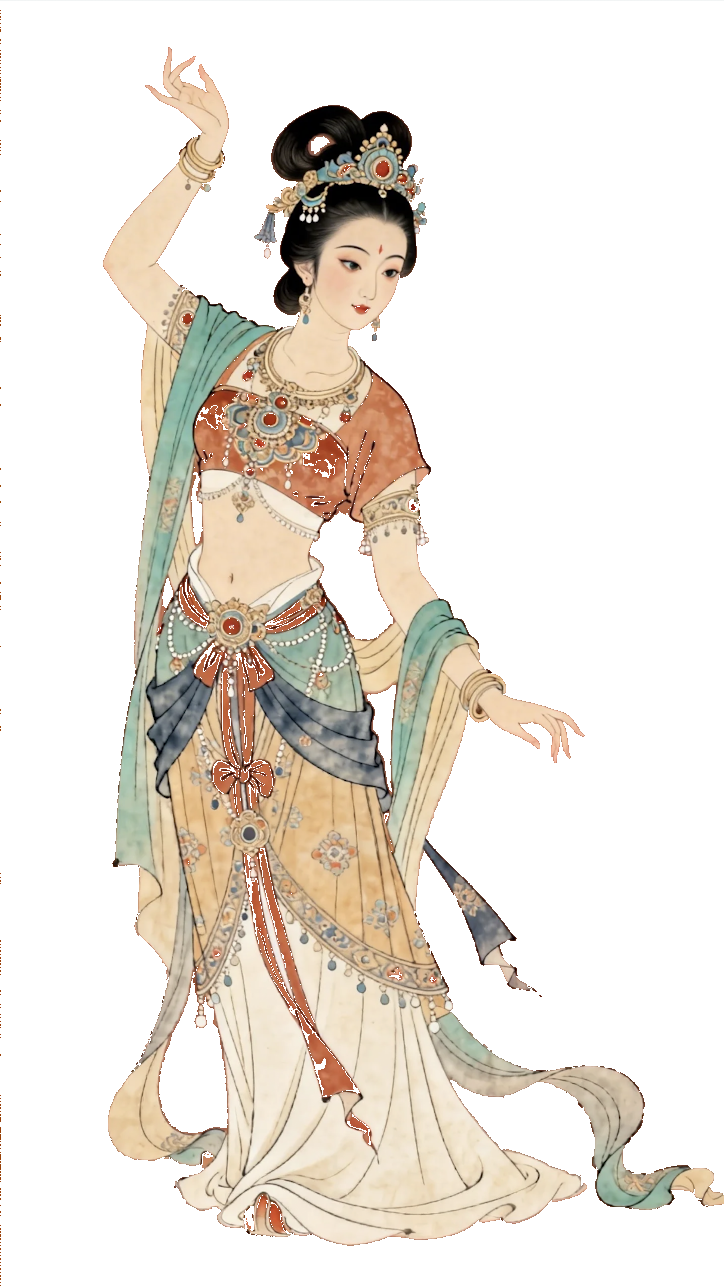
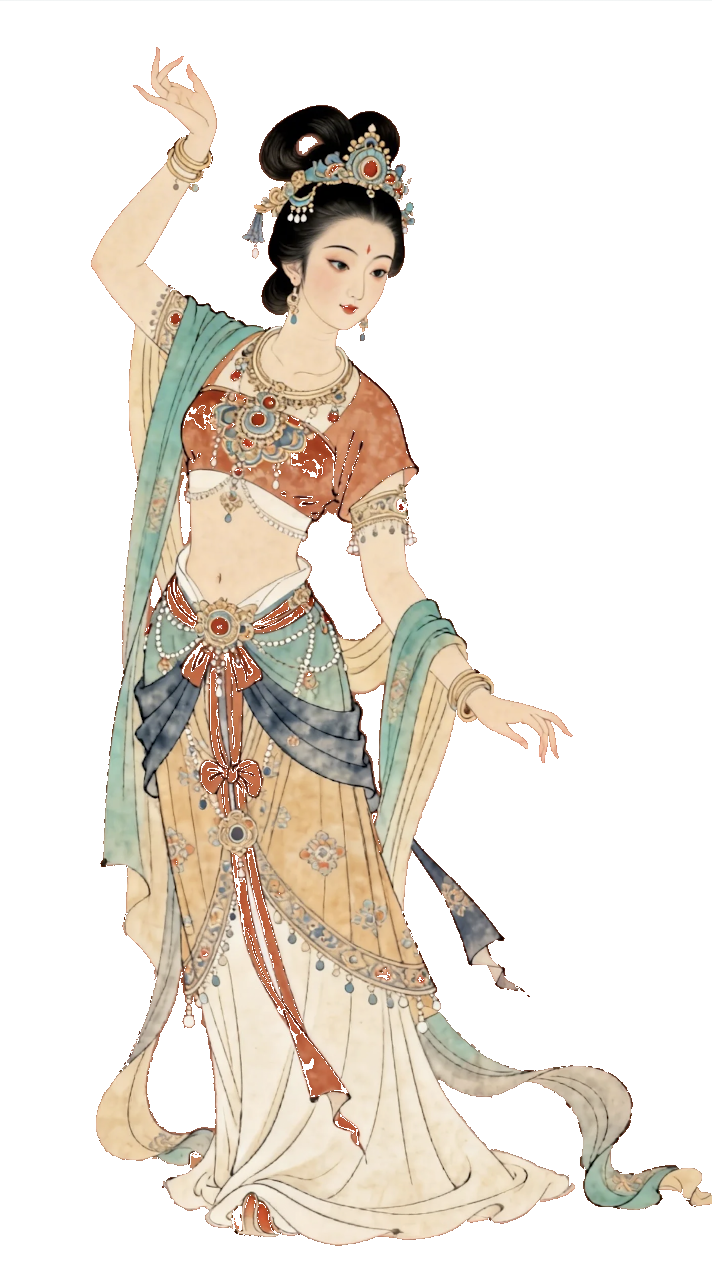
home: connect the cutting interaction — scissors bite the phoenix
Redesigns the maker scene as ONE action instead of three floating props:
- her lowered hand holds the scissors (loops at her fingers, origin at
  the loops), blades rotated to bite the phoenix's upper-left edge
- phoenix shrunk to work-in-progress scale (33%) and moved under the
  blades; it trembles slightly with each snip, pivoting where held
- a raw uncut sheet corner tucks under the contact point
- scraps now fall exactly from the blade-paper CONTACT point
- woman enlarged (stage 102vh, tighter right margin)
- woman.png: trimmed 12px screenshot-edge artifact; % coords re-tuned
  (aspect 712/1288, eyelids re-aligned)

diff --git a/src/components/PapercutMakerScene.jsx b/src/components/PapercutMakerScene.jsx
@@ -18,12 +18,19 @@
  * so they track the woman image at every viewport size.
  */
 
+/*
+ * Interaction design (one connected action, not three props):
+ *   her lowered hand HOLDS the scissors → the blades bite the upper-left
+ *   edge of the phoenix she is cutting → scraps fall exactly from that
+ *   blade-paper contact point (~63%, 60% of stage).
+ */
+const CONTACT = { x: 63, y: 59 };  // blade ↔ paper contact, % of stage
 const SCRAPS = [
-  { left: 60, top: 70, delay: 0,   dur: 3.4 },
-  { left: 66, top: 73, delay: 1.1, dur: 3.8 },
-  { left: 57, top: 75, delay: 2.0, dur: 3.1 },
-  { left: 70, top: 71, delay: 2.7, dur: 4.2 },
-  { left: 63, top: 77, delay: 0.6, dur: 3.6 },
+  { left: CONTACT.x - 2, top: CONTACT.y + 1, delay: 0,   dur: 3.4 },
+  { left: CONTACT.x + 3, top: CONTACT.y + 3, delay: 1.1, dur: 3.8 },
+  { left: CONTACT.x - 4, top: CONTACT.y + 4, delay: 2.0, dur: 3.1 },
+  { left: CONTACT.x + 6, top: CONTACT.y + 2, delay: 2.7, dur: 4.2 },
+  { left: CONTACT.x,     top: CONTACT.y + 5, delay: 0.6, dur: 3.6 },
 ];
 
 export default function PapercutMakerScene({ lang = 'en' }) {
@@ -64,8 +71,10 @@ export default function PapercutMakerScene({ lang = 'en' }) {
 
       {/* ── stage: fixed-aspect box matching woman.png (724 × 1288) ── */}
       <div className="pmk-stage">
-        {/* phoenix papercut — held aloft by her raised hand (behind her arm) */}
+        {/* work-in-progress: the phoenix being cut, at her working hand */}
         <img src="/maker/phoenix.png" alt="" draggable={false} className="pmk-phoenix" />
+        {/* raw uncut sheet corner still attached at the blade contact */}
+        <span className="pmk-rawsheet" aria-hidden="true" />
 
         {/* the maker */}
         <div className="pmk-woman-wrap">
@@ -114,9 +123,9 @@ export default function PapercutMakerScene({ lang = 'en' }) {
         }
         .pmk-stage {
           position: absolute;
-          right: 4vw; bottom: 0;
-          height: 96vh;
-          aspect-ratio: 724 / 1288;
+          right: 2vw; bottom: 0;
+          height: 102vh;
+          aspect-ratio: 712 / 1288;
           z-index: 2;
         }
         .pmk-woman-wrap {
@@ -138,33 +147,46 @@ export default function PapercutMakerScene({ lang = 'en' }) {
           transform-origin: top center;
           z-index: 3;
         }
-        .pmk-lid-l { left: 46.6%; top: 19.9%; width: 3.6%; height: 1.15%; }
-        .pmk-lid-r { left: 52.6%; top: 20.6%; width: 2.8%; height: 0.95%; }
+        .pmk-lid-l { left: 45.7%; top: 19.9%; width: 3.7%; height: 1.15%; }
+        .pmk-lid-r { left: 51.8%; top: 20.6%; width: 2.85%; height: 0.95%; }
         .pmk-lid     { animation: pmkBlink 4.6s ease-in-out infinite; }
         .pmk-lid-r.pmk-lid { animation-delay: 0.04s; }
         .pmk-halflid { animation: pmkHalfLid 11s ease-in-out infinite; opacity: 0.9; }
 
-        /* ── scissors in her lowered hand — flipped so the loops sit at her
-           fingers, blades point down, tassel dangles ── */
+        /* ── scissors HELD in her lowered hand: loops at her fingers
+           (origin 50% 80% = loops), blades rotated down-right so their
+           tips bite the phoenix's upper-left edge at the CONTACT point ── */
         .pmk-scissors {
           position: absolute;
-          left: 50%; top: 37%;
-          width: 30%;
+          left: 54%; top: 43%;
+          width: 22%;
           transform-origin: 50% 80%;   /* pivot = the finger loops */
           animation: pmkSnip 1.6s ease-in-out infinite;
           filter: drop-shadow(0 10px 16px rgba(60,40,20,0.28));
           z-index: 4; user-select: none;
         }
 
-        /* ── phoenix held aloft, behind her raised arm ── */
+        /* ── the phoenix being cut — small work-in-progress at her hand,
+           its upper-left edge under the blades ── */
         .pmk-phoenix {
           position: absolute;
-          left: -40%; top: -4%;
-          width: 62%;
-          transform-origin: 80% 20%;
-          animation: pmkPhoenix 7s ease-in-out infinite;
-          filter: drop-shadow(0 18px 30px rgba(160,30,40,0.25));
-          z-index: 1; user-select: none;
+          left: 58%; top: 56%;
+          width: 33%;
+          transform-origin: 18% 8%;    /* pivots where it is held/cut */
+          animation: pmkPhoenix 5.5s ease-in-out infinite;
+          filter: drop-shadow(0 14px 22px rgba(160,30,40,0.3));
+          z-index: 3; user-select: none;
+        }
+
+        /* raw uncut sheet corner at the contact point, tucked under */
+        .pmk-rawsheet {
+          position: absolute;
+          left: 57%; top: 55.5%;
+          width: 9%; aspect-ratio: 1;
+          background: #c32433;
+          clip-path: polygon(8% 0, 100% 14%, 84% 92%, 0 70%);
+          transform: rotate(14deg);
+          z-index: 2;
         }
 
         /* ── falling red scraps ── */
@@ -191,12 +213,14 @@ export default function PapercutMakerScene({ lang = 'en' }) {
           84%, 100% { transform: scaleY(0); }
         }
         @keyframes pmkSnip {
-          0%, 100% { transform: rotate(168deg); }
-          45%      { transform: rotate(161deg) translateY(2px); }
+          0%, 100% { transform: rotate(150deg); }
+          45%      { transform: rotate(143deg) translateY(1px); }
         }
+        /* the work trembles slightly with each cut, pivoting at the held corner */
         @keyframes pmkPhoenix {
-          0%, 100% { transform: rotate(-2deg) translateY(0); }
-          50%      { transform: rotate(2.4deg) translateY(-10px); }
+          0%, 100% { transform: rotate(-0.8deg); }
+          45%      { transform: rotate(1.2deg) translateY(1px); }
+          60%      { transform: rotate(0.4deg); }
         }
         @keyframes pmkFall {
           0%   { opacity: 0; transform: translateY(0) rotate(0deg); }
